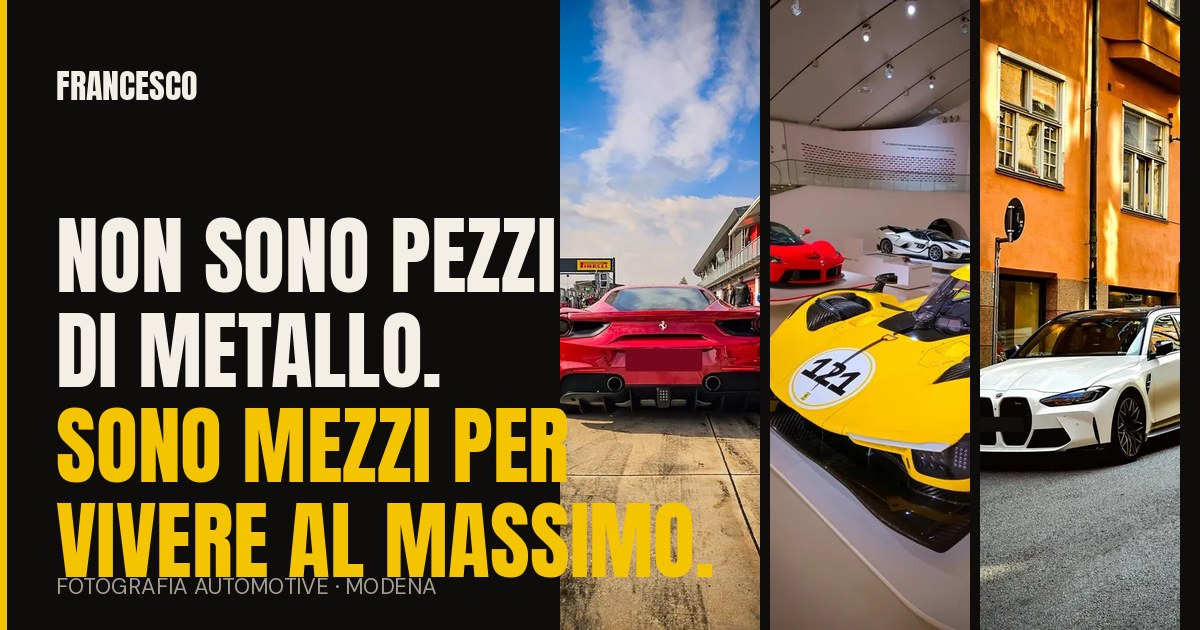
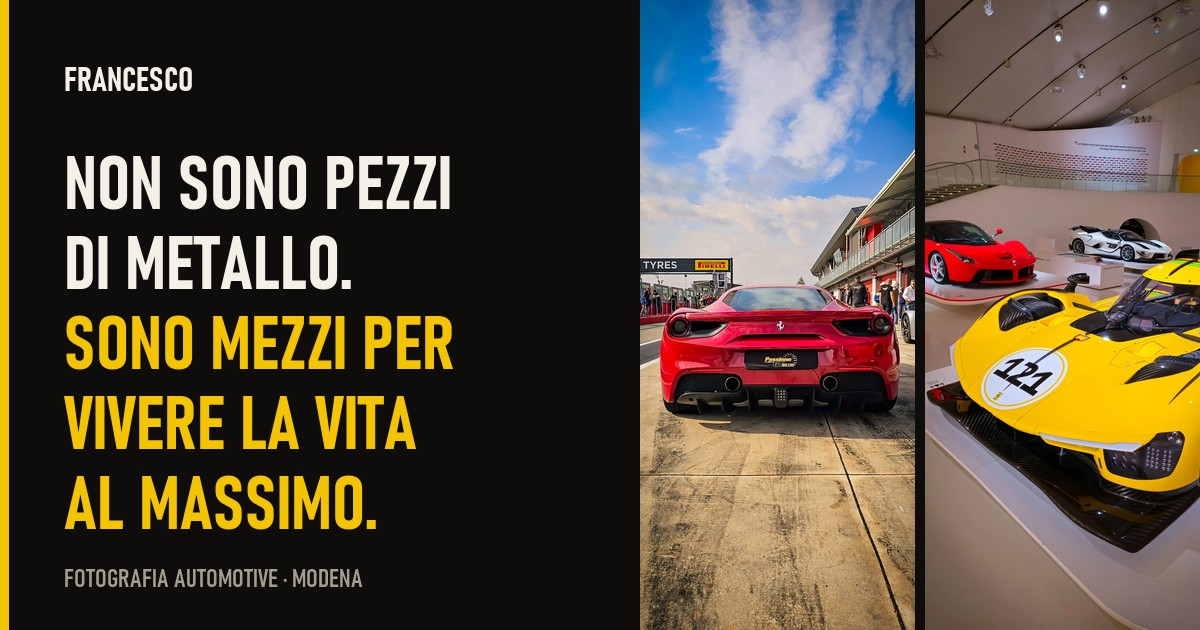
Nuova anteprima social e cache-busting di CSS/JS

diff --git a/index.html b/index.html
@@ -14,14 +14,14 @@
 <meta property="og:title" content="Francesco · Fotografia automotive a Modena">
 <meta property="og:description" content="Non sono pezzi di metallo. Sono mezzi per vivere la vita al massimo. Un'ora di prova gratis: 10-15 foto in 48 ore.">
 <meta property="og:url" content="https://cataaa06.github.io/portfolio/">
-<meta property="og:image" content="https://cataaa06.github.io/portfolio/assets/og.jpg">
+<meta property="og:image" content="https://cataaa06.github.io/portfolio/assets/og.jpg?v=3">
 <meta property="og:image:width" content="1200">
 <meta property="og:image:height" content="630">
 <meta name="twitter:card" content="summary_large_image">
 
 <link rel="preload" href="assets/fonts/big-shoulders-display-latin-800-normal.woff2" as="font" type="font/woff2" crossorigin>
 <link rel="preload" href="assets/fonts/hanken-grotesk-latin-400-normal.woff2" as="font" type="font/woff2" crossorigin>
-<link rel="stylesheet" href="assets/css/style.css">
+<link rel="stylesheet" href="assets/css/style.css?v=3">
 
 <script type="application/ld+json">
 {"@context":"https://schema.org","@type":"Person","name":"Francesco","jobTitle":"Fotografo automotive","address":{"@type":"PostalAddress","addressLocality":"Modena","addressCountry":"IT"},"email":"mailto:fra.cata2006@gmail.com","sameAs":["https://instagram.com/fra_catalano27"]}
@@ -194,6 +194,6 @@
   <div class="lb-cap"><span class="roundel" id="lbNum"></span><div><b id="lbTitle"></b><span id="lbText"></span></div></div>
 </dialog>
 
-<script src="assets/js/main.js"></script>
+<script src="assets/js/main.js?v=3"></script>
 </body>
 </html>
